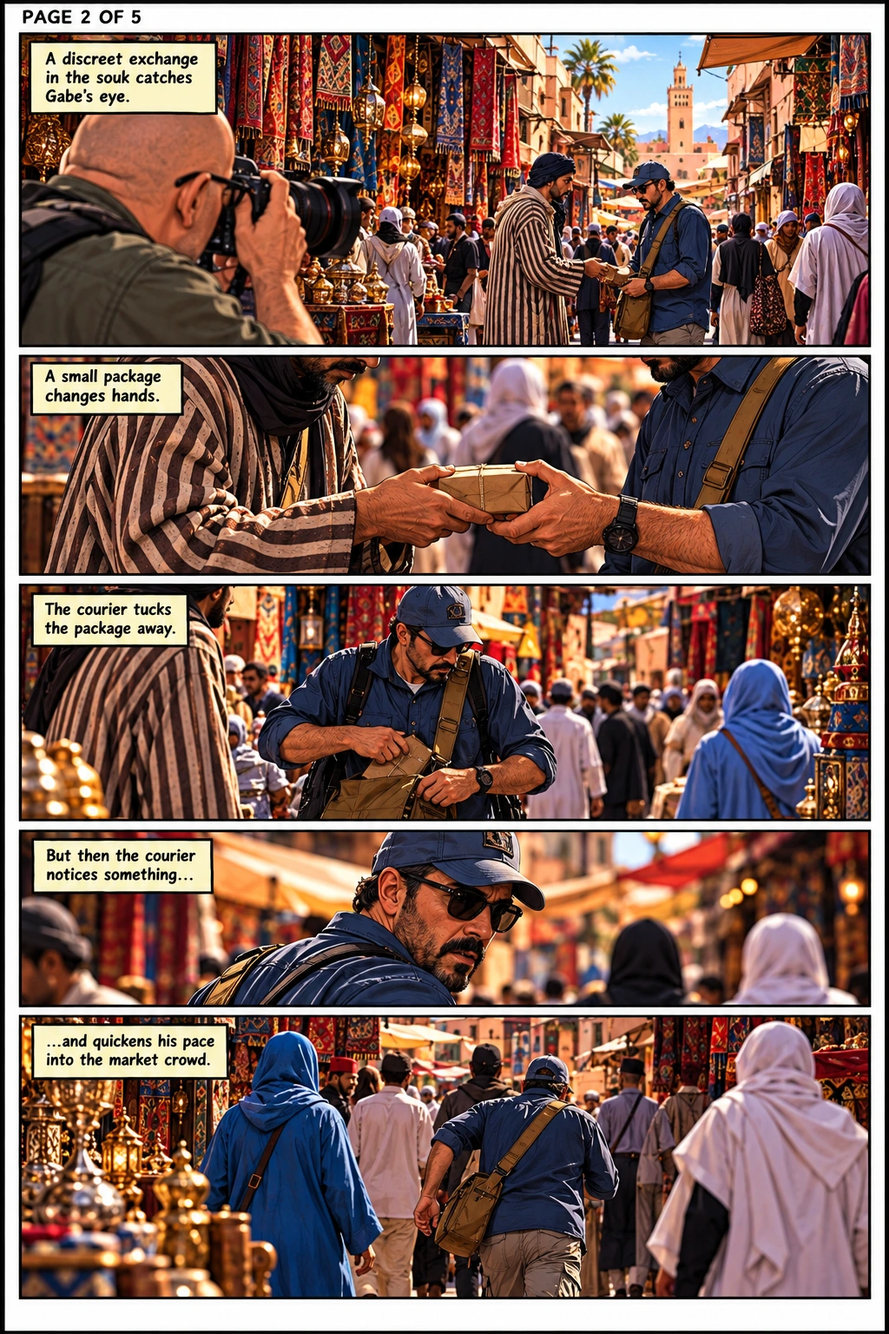
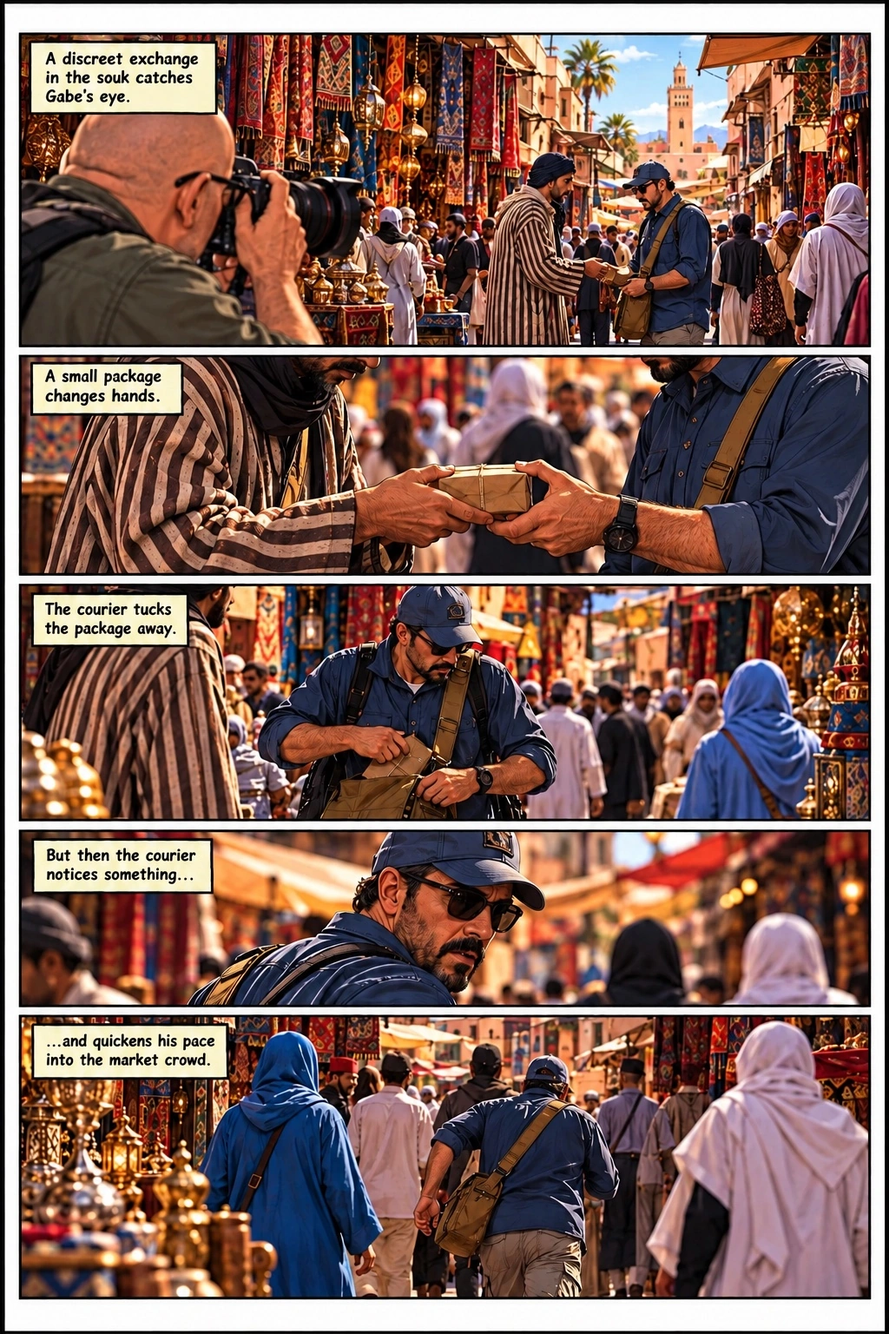
Update 12 files

diff --git a/public/disclaimers.html b/public/disclaimers.html
@@ -1,1 +1,1 @@
-<!doctype html><html lang="en"><head><meta charset="utf-8"><meta name="viewport" content="width=device-width,initial-scale=1,viewport-fit=cover"><meta name="theme-color" content="#0b1216"><meta name="description" content="DaRoo, a Generify original illustrated adventure imprint."><link rel="stylesheet" href="/assets/style.css"><title>DaRoo | Disclaimers</title><meta name="apple-mobile-web-app-capable" content="yes"><meta name="apple-mobile-web-app-status-bar-style" content="black-translucent"><meta name="apple-mobile-web-app-title" content="DaRoo"><link rel="apple-touch-icon" href="/assets/images/daroo-home-icon.png"><link rel="manifest" href="/manifest.webmanifest"><script src="/assets/version.js" defer></script></head><body class="site-page page-disclaimers"><a class="skip" href="#main">Skip to content</a><header class="nav"><a class="wordmark" href="/" aria-label="DaRoo main"><img class="header-logo" src="/assets/images/daroo-approved-logo.webp" alt="DaRoo — A Generify Original"></a></header><main id="main"><section class="editorial legal"><p class="eyebrow">PUBLISHING INFORMATION</p><h1>Disclaimers &amp; rights</h1><p class="lead">Information about the fictional stories and development previews presented by DaRoo.</p><h2>Copyright and permissions</h2><p>Unless otherwise identified, the original stories, characters, scripts, illustrations, designs and website materials presented here are published under the DaRoo imprint, a Generify original. © 2026 Generify. All rights reserved. No part may be reproduced, redistributed, adapted, or commercially exploited without prior written permission, except as permitted by applicable law.</p><h2>Fictional work</h2><p>Gabe &amp; Jinx is a work of fiction. Characters, events, dialogue, organizations and fictional historical material are created for storytelling purposes. Any resemblance to actual persons, living or deceased, or actual events is coincidental or used in a fictionalized context, except where expressly acknowledged.</p><h2>Historical and geographical references</h2><p>Real-world locations, historical periods and cultural details may appear alongside invented people, records, events and circumstances. The stories are entertainment, not documentary or historical evidence.</p><h2>Trademarks and third-party material</h2><p>Third-party names, marks and referenced properties remain the property of their respective owners. Their appearance does not imply sponsorship, endorsement or affiliation. Any credited third-party material remains subject to its own rights and permissions.</p><h2>Preview and production status</h2><p>Pages marked “Development Preview” are works in progress. Artwork, lettering, sequencing, story details and publication information may change before final release. Preview pages are not representations of a finalized printed edition.</p><h2>Reader and site information</h2><p>This website presents original publishing information and a browser-based preview reader. The availability, completeness and format of stories may change. External links, where provided, lead to services outside DaRoo's control.</p><h2>Rights enquiries</h2><p>For permission requests or rights enquiries, contact DaRoo through its official publishing channels. A dedicated contact address will be published when confirmed.</p><p class="fine">Editorial boilerplate draft for review before commercial print publication; not a substitute for advice from a qualified legal professional.</p></section></main><nav class="bottom-nav" aria-label="Site navigation"><a href="/" data-nav="main"><span aria-hidden="true">⌂</span><span>Main</span></a><a href="/stories.html" data-nav="stories"><span aria-hidden="true">▤</span><span>Stories</span></a><a href="/imprint.html" data-nav="imprint"><span aria-hidden="true">✦</span><span>The Imprint</span></a><a href="/disclaimers.html" data-nav="disclaimers"><span aria-hidden="true">ⓘ</span><span>Disclaimers</span></a><span class="app-version" aria-label="Application version 0.4.10">v0.4.10</span></nav></body></html>
+<!doctype html><html lang="en"><head><meta charset="utf-8"><meta name="viewport" content="width=device-width,initial-scale=1,viewport-fit=cover"><meta name="theme-color" content="#0b1216"><meta name="description" content="DaRoo, a Generify original illustrated adventure imprint."><link rel="stylesheet" href="/assets/style.css"><title>DaRoo | Disclaimers</title><meta name="apple-mobile-web-app-capable" content="yes"><meta name="apple-mobile-web-app-status-bar-style" content="black-translucent"><meta name="apple-mobile-web-app-title" content="DaRoo"><link rel="apple-touch-icon" href="/assets/images/daroo-home-icon.png"><link rel="manifest" href="/manifest.webmanifest"><script src="/assets/version.js" defer></script></head><body class="site-page page-disclaimers"><a class="skip" href="#main">Skip to content</a><header class="nav"><a class="wordmark" href="/" aria-label="DaRoo main"><img class="header-logo" src="/assets/images/daroo-approved-logo.webp" alt="DaRoo — A Generify Original"></a></header><main id="main"><section class="editorial legal"><p class="eyebrow">PUBLISHING INFORMATION</p><h1>Disclaimers &amp; rights</h1><p class="lead">Information about the fictional stories and development previews presented by DaRoo.</p><h2>Copyright and permissions</h2><p>Unless otherwise identified, the original stories, characters, scripts, illustrations, designs and website materials presented here are published under the DaRoo imprint, a Generify original. © 2026 Generify. All rights reserved. No part may be reproduced, redistributed, adapted, or commercially exploited without prior written permission, except as permitted by applicable law.</p><h2>Fictional work</h2><p>Gabe &amp; Jinx is a work of fiction. Characters, events, dialogue, organizations and fictional historical material are created for storytelling purposes. Any resemblance to actual persons, living or deceased, or actual events is coincidental or used in a fictionalized context, except where expressly acknowledged.</p><h2>Historical and geographical references</h2><p>Real-world locations, historical periods and cultural details may appear alongside invented people, records, events and circumstances. The stories are entertainment, not documentary or historical evidence.</p><h2>Trademarks and third-party material</h2><p>Third-party names, marks and referenced properties remain the property of their respective owners. Their appearance does not imply sponsorship, endorsement or affiliation. Any credited third-party material remains subject to its own rights and permissions.</p><h2>Preview and production status</h2><p>Pages marked “Development Preview” are works in progress. Artwork, lettering, sequencing, story details and publication information may change before final release. Preview pages are not representations of a finalized printed edition.</p><h2>Reader and site information</h2><p>This website presents original publishing information and a browser-based preview reader. The availability, completeness and format of stories may change. External links, where provided, lead to services outside DaRoo's control.</p><h2>Rights enquiries</h2><p>For permission requests or rights enquiries, contact DaRoo through its official publishing channels. A dedicated contact address will be published when confirmed.</p><p class="fine">Editorial boilerplate draft for review before commercial print publication; not a substitute for advice from a qualified legal professional.</p></section></main><nav class="bottom-nav" aria-label="Site navigation"><a href="/" data-nav="main"><span aria-hidden="true">⌂</span><span>Main</span></a><a href="/stories.html" data-nav="stories"><span aria-hidden="true">▤</span><span>Stories</span></a><a href="/imprint.html" data-nav="imprint"><span aria-hidden="true">✦</span><span>The Imprint</span></a><a href="/disclaimers.html" data-nav="disclaimers"><span aria-hidden="true">ⓘ</span><span>Disclaimers</span></a><span class="app-version" aria-label="Application version 0.4.11">v0.4.11</span></nav></body></html>

diff --git a/public/stories.html b/public/stories.html
@@ -1,1 +1,1 @@
-<!doctype html><html lang="en"><head><meta charset="utf-8"><meta name="viewport" content="width=device-width,initial-scale=1,viewport-fit=cover"><meta name="theme-color" content="#0b1216"><meta name="description" content="DaRoo, a Generify original illustrated adventure imprint."><link rel="stylesheet" href="/assets/style.css"><title>DaRoo | Stories</title><meta name="apple-mobile-web-app-capable" content="yes"><meta name="apple-mobile-web-app-status-bar-style" content="black-translucent"><meta name="apple-mobile-web-app-title" content="DaRoo"><link rel="apple-touch-icon" href="/assets/images/daroo-home-icon.png"><link rel="manifest" href="/manifest.webmanifest"><script src="/assets/version.js" defer></script></head><body class="site-page page-stories"><a class="skip" href="#main">Skip to content</a><header class="nav"><a class="wordmark" href="/" aria-label="DaRoo main"><img class="header-logo" src="/assets/images/daroo-approved-logo.webp" alt="DaRoo — A Generify Original"></a></header><main id="main"><section class="story-section" id="stories"><div class="section-top"><span class="eyebrow">01 / THE FIRST ADVENTURE</span><span class="status">IN DEVELOPMENT</span></div><div class="story-grid"><div class="story-image"><img src="/assets/images/gabe-jinx-eye-of-the-desert-story-art.webp" loading="lazy" alt="Gabe and Jinx in Marrakech with a mysterious 1926 expedition photograph, an elusive courier and the Atlas Mountains"><span class="art-label">BOOK ONE · STORY ILLUSTRATION</span></div><div class="story-copy"><p class="eyebrow accent">GABE &amp; JINX · BOOK ONE</p><h2>An ordinary afternoon.<br><em>An impossible photograph.</em></h2><p>A filmmaker with an eye for what doesn't fit. A fearless kangaroo who refuses to back down. One encounter in Marrakech sends them toward a mystery buried in the Atlas Mountains.</p><p class="bookline">THE EYE OF THE DESERT <span>· BOOK ONE</span></p><a class="btn" href="/reader.html?book=gabe-and-jinx-01">Explore the reader <span>↗</span></a><p class="fine">An illustrated development preview, not the completed book.</p></div></div></section></main><nav class="bottom-nav" aria-label="Site navigation"><a href="/" data-nav="main"><span aria-hidden="true">⌂</span><span>Main</span></a><a href="/stories.html" data-nav="stories"><span aria-hidden="true">▤</span><span>Stories</span></a><a href="/imprint.html" data-nav="imprint"><span aria-hidden="true">✦</span><span>The Imprint</span></a><a href="/disclaimers.html" data-nav="disclaimers"><span aria-hidden="true">ⓘ</span><span>Disclaimers</span></a><span class="app-version" aria-label="Application version 0.4.10">v0.4.10</span></nav></body></html>
+<!doctype html><html lang="en"><head><meta charset="utf-8"><meta name="viewport" content="width=device-width,initial-scale=1,viewport-fit=cover"><meta name="theme-color" content="#0b1216"><meta name="description" content="DaRoo, a Generify original illustrated adventure imprint."><link rel="stylesheet" href="/assets/style.css"><title>DaRoo | Stories</title><meta name="apple-mobile-web-app-capable" content="yes"><meta name="apple-mobile-web-app-status-bar-style" content="black-translucent"><meta name="apple-mobile-web-app-title" content="DaRoo"><link rel="apple-touch-icon" href="/assets/images/daroo-home-icon.png"><link rel="manifest" href="/manifest.webmanifest"><script src="/assets/version.js" defer></script></head><body class="site-page page-stories"><a class="skip" href="#main">Skip to content</a><header class="nav"><a class="wordmark" href="/" aria-label="DaRoo main"><img class="header-logo" src="/assets/images/daroo-approved-logo.webp" alt="DaRoo — A Generify Original"></a></header><main id="main"><section class="story-section" id="stories"><div class="section-top"><span class="eyebrow">01 / THE FIRST ADVENTURE</span><span class="status">IN DEVELOPMENT</span></div><div class="story-grid"><div class="story-image"><img src="/assets/images/gabe-jinx-eye-of-the-desert-story-art.webp" loading="lazy" alt="Gabe and Jinx in Marrakech with a mysterious 1926 expedition photograph, an elusive courier and the Atlas Mountains"><span class="art-label">BOOK ONE · STORY ILLUSTRATION</span></div><div class="story-copy"><p class="eyebrow accent">GABE &amp; JINX · BOOK ONE</p><h2>An ordinary afternoon.<br><em>An impossible photograph.</em></h2><p>A filmmaker with an eye for what doesn't fit. A fearless kangaroo who refuses to back down. One encounter in Marrakech sends them toward a mystery buried in the Atlas Mountains.</p><p class="bookline">THE EYE OF THE DESERT <span>· BOOK ONE</span></p><a class="btn" href="/reader.html?book=gabe-and-jinx-01">Explore the reader <span>↗</span></a><p class="fine">An illustrated development preview, not the completed book.</p></div></div></section></main><nav class="bottom-nav" aria-label="Site navigation"><a href="/" data-nav="main"><span aria-hidden="true">⌂</span><span>Main</span></a><a href="/stories.html" data-nav="stories"><span aria-hidden="true">▤</span><span>Stories</span></a><a href="/imprint.html" data-nav="imprint"><span aria-hidden="true">✦</span><span>The Imprint</span></a><a href="/disclaimers.html" data-nav="disclaimers"><span aria-hidden="true">ⓘ</span><span>Disclaimers</span></a><span class="app-version" aria-label="Application version 0.4.11">v0.4.11</span></nav></body></html>

diff --git a/public/reader.html b/public/reader.html
@@ -1,1 +1,1 @@
-<!doctype html><html lang="en"><head><meta charset="utf-8"><meta name="viewport" content="width=device-width,initial-scale=1"><meta name="theme-color" content="#070b0f"><title>DaRoo | Reader Preview</title><link rel="stylesheet" href="/assets/style.css"><meta name="apple-mobile-web-app-capable" content="yes"><meta name="apple-mobile-web-app-status-bar-style" content="black-translucent"><meta name="apple-mobile-web-app-title" content="DaRoo"><link rel="apple-touch-icon" href="/assets/images/daroo-home-icon.png"><link rel="manifest" href="/manifest.webmanifest"><script src="/assets/version.js" defer></script></head><body class="readerbody"><header class="readerbar"><a href="/" class="back" aria-label="Back to DaRoo">← <span>DaRoo</span></a><div class="reader-heading"><strong id="book-title">Gabe &amp; Jinx</strong><small>DEVELOPMENT PREVIEW</small></div><div class="reader-tools"><button id="zoomout" aria-label="Zoom out" title="Zoom out">−</button><button id="zoomreset" aria-label="Reset zoom" title="Fit page">100%</button><button id="zoomin" aria-label="Zoom in" title="Zoom in">+</button><button id="spread" aria-label="Toggle two-page view" title="Two-page view" aria-pressed="false">▣</button><button id="fullscreen" aria-label="Fullscreen" title="Fullscreen">⛶</button></div></header><main class="reader-main"><div class="reader-stage" id="stage" aria-label="Comic page viewer; pinch or double tap to zoom"><p class="loading">Opening the preview…</p></div><div class="reader-controls"><button id="prev" aria-label="Previous page">← <span>Previous</span></button><div class="progress"><span id="counter">—</span><input id="seek" type="range" min="1" max="1" value="1" aria-label="Choose page"></div><button id="next" aria-label="Next page"><span>Next</span> →</button></div><p class="reader-note" id="reader-note">One portrait comic page per step · Pinch or double tap to zoom</p></main><script src="/assets/reader.js" defer></script><nav class="bottom-nav" aria-label="Site navigation"><a href="/" data-nav="main"><span aria-hidden="true">⌂</span><span>Main</span></a><a href="/stories.html" data-nav="stories"><span aria-hidden="true">▤</span><span>Stories</span></a><a href="/imprint.html" data-nav="imprint"><span aria-hidden="true">✦</span><span>The Imprint</span></a><a href="/disclaimers.html" data-nav="disclaimers"><span aria-hidden="true">ⓘ</span><span>Disclaimers</span></a><span class="app-version" aria-label="Application version 0.4.10">v0.4.10</span></nav></body></html>
+<!doctype html><html lang="en"><head><meta charset="utf-8"><meta name="viewport" content="width=device-width,initial-scale=1"><meta name="theme-color" content="#070b0f"><title>DaRoo | Reader Preview</title><link rel="stylesheet" href="/assets/style.css"><meta name="apple-mobile-web-app-capable" content="yes"><meta name="apple-mobile-web-app-status-bar-style" content="black-translucent"><meta name="apple-mobile-web-app-title" content="DaRoo"><link rel="apple-touch-icon" href="/assets/images/daroo-home-icon.png"><link rel="manifest" href="/manifest.webmanifest"><script src="/assets/version.js" defer></script></head><body class="readerbody"><header class="readerbar"><a href="/" class="back" aria-label="Back to DaRoo">← <span>DaRoo</span></a><div class="reader-heading"><strong id="book-title">Gabe &amp; Jinx</strong><small>DEVELOPMENT PREVIEW</small></div><div class="reader-tools"><button id="zoomout" aria-label="Zoom out" title="Zoom out">−</button><button id="zoomreset" aria-label="Reset zoom" title="Fit page">100%</button><button id="zoomin" aria-label="Zoom in" title="Zoom in">+</button><button id="spread" aria-label="Toggle two-page view" title="Two-page view" aria-pressed="false">▣</button><button id="fullscreen" aria-label="Fullscreen" title="Fullscreen">⛶</button></div></header><main class="reader-main"><div class="reader-stage" id="stage" aria-label="Comic page viewer; pinch or double tap to zoom"><p class="loading">Opening the preview…</p></div><div class="reader-controls"><button id="prev" aria-label="Previous page">← <span>Previous</span></button><div class="progress"><span id="counter">—</span><input id="seek" type="range" min="1" max="1" value="1" aria-label="Choose page"></div><button id="next" aria-label="Next page"><span>Next</span> →</button></div><p class="reader-note" id="reader-note">One portrait comic page per step · Pinch or double tap to zoom</p></main><script src="/assets/reader.js" defer></script><nav class="bottom-nav" aria-label="Site navigation"><a href="/" data-nav="main"><span aria-hidden="true">⌂</span><span>Main</span></a><a href="/stories.html" data-nav="stories"><span aria-hidden="true">▤</span><span>Stories</span></a><a href="/imprint.html" data-nav="imprint"><span aria-hidden="true">✦</span><span>The Imprint</span></a><a href="/disclaimers.html" data-nav="disclaimers"><span aria-hidden="true">ⓘ</span><span>Disclaimers</span></a><span class="app-version" aria-label="Application version 0.4.11">v0.4.11</span></nav></body></html>

diff --git a/public/imprint.html b/public/imprint.html
@@ -1,1 +1,1 @@
-<!doctype html><html lang="en"><head><meta charset="utf-8"><meta name="viewport" content="width=device-width,initial-scale=1,viewport-fit=cover"><meta name="theme-color" content="#0b1216"><meta name="description" content="DaRoo, a Generify original illustrated adventure imprint."><link rel="stylesheet" href="/assets/style.css"><title>DaRoo | The Imprint</title><meta name="apple-mobile-web-app-capable" content="yes"><meta name="apple-mobile-web-app-status-bar-style" content="black-translucent"><meta name="apple-mobile-web-app-title" content="DaRoo"><link rel="apple-touch-icon" href="/assets/images/daroo-home-icon.png"><link rel="manifest" href="/manifest.webmanifest"><script src="/assets/version.js" defer></script></head><body class="site-page page-imprint"><a class="skip" href="#main">Skip to content</a><header class="nav"><a class="wordmark" href="/" aria-label="DaRoo main"><img class="header-logo" src="/assets/images/daroo-approved-logo.webp" alt="DaRoo — A Generify Original"></a></header><main id="main"><section class="imprint" id="imprint"><div><p class="eyebrow">02 / THE IMPRINT</p><h2>Made to be<br><em>explored twice.</em></h2></div><div><p>DaRoo publishes illustrated adventures built around character, atmosphere and the small clues hiding in plain sight.</p><p>The first read is the adventure. The second is the hunt.</p><div class="imprint-mark"><img src="/assets/images/daroo-original-artwork.webp" alt="Original Generify DaRoo adventure artwork"><span>ORIGINAL GENERIFY × DAROO ARTWORK</span></div></div></section><section class="editorial"><h2>Our approach</h2><p>Story comes first. Artwork, lettering and continuity are developed and reviewed together, page by page. DaRoo is an illustrated publishing imprint presented by Generify.</p></section></main><nav class="bottom-nav" aria-label="Site navigation"><a href="/" data-nav="main"><span aria-hidden="true">⌂</span><span>Main</span></a><a href="/stories.html" data-nav="stories"><span aria-hidden="true">▤</span><span>Stories</span></a><a href="/imprint.html" data-nav="imprint"><span aria-hidden="true">✦</span><span>The Imprint</span></a><a href="/disclaimers.html" data-nav="disclaimers"><span aria-hidden="true">ⓘ</span><span>Disclaimers</span></a><span class="app-version" aria-label="Application version 0.4.10">v0.4.10</span></nav></body></html>
+<!doctype html><html lang="en"><head><meta charset="utf-8"><meta name="viewport" content="width=device-width,initial-scale=1,viewport-fit=cover"><meta name="theme-color" content="#0b1216"><meta name="description" content="DaRoo, a Generify original illustrated adventure imprint."><link rel="stylesheet" href="/assets/style.css"><title>DaRoo | The Imprint</title><meta name="apple-mobile-web-app-capable" content="yes"><meta name="apple-mobile-web-app-status-bar-style" content="black-translucent"><meta name="apple-mobile-web-app-title" content="DaRoo"><link rel="apple-touch-icon" href="/assets/images/daroo-home-icon.png"><link rel="manifest" href="/manifest.webmanifest"><script src="/assets/version.js" defer></script></head><body class="site-page page-imprint"><a class="skip" href="#main">Skip to content</a><header class="nav"><a class="wordmark" href="/" aria-label="DaRoo main"><img class="header-logo" src="/assets/images/daroo-approved-logo.webp" alt="DaRoo — A Generify Original"></a></header><main id="main"><section class="imprint" id="imprint"><div><p class="eyebrow">02 / THE IMPRINT</p><h2>Made to be<br><em>explored twice.</em></h2></div><div><p>DaRoo publishes illustrated adventures built around character, atmosphere and the small clues hiding in plain sight.</p><p>The first read is the adventure. The second is the hunt.</p><div class="imprint-mark"><img src="/assets/images/daroo-original-artwork.webp" alt="Original Generify DaRoo adventure artwork"><span>ORIGINAL GENERIFY × DAROO ARTWORK</span></div></div></section><section class="editorial"><h2>Our approach</h2><p>Story comes first. Artwork, lettering and continuity are developed and reviewed together, page by page. DaRoo is an illustrated publishing imprint presented by Generify.</p></section></main><nav class="bottom-nav" aria-label="Site navigation"><a href="/" data-nav="main"><span aria-hidden="true">⌂</span><span>Main</span></a><a href="/stories.html" data-nav="stories"><span aria-hidden="true">▤</span><span>Stories</span></a><a href="/imprint.html" data-nav="imprint"><span aria-hidden="true">✦</span><span>The Imprint</span></a><a href="/disclaimers.html" data-nav="disclaimers"><span aria-hidden="true">ⓘ</span><span>Disclaimers</span></a><span class="app-version" aria-label="Application version 0.4.11">v0.4.11</span></nav></body></html>

diff --git a/public/index.html b/public/index.html
@@ -1,1 +1,1 @@
-<!doctype html><html lang="en"><head><meta charset="utf-8"><meta name="viewport" content="width=device-width,initial-scale=1,viewport-fit=cover"><meta name="theme-color" content="#0b1216"><meta name="description" content="DaRoo, a Generify original illustrated adventure imprint."><link rel="stylesheet" href="/assets/style.css"><title>DaRoo | Main</title><meta name="apple-mobile-web-app-capable" content="yes"><meta name="apple-mobile-web-app-status-bar-style" content="black-translucent"><meta name="apple-mobile-web-app-title" content="DaRoo"><link rel="apple-touch-icon" href="/assets/images/daroo-home-icon.png"><link rel="manifest" href="/manifest.webmanifest"><script src="/assets/version.js" defer></script></head><body class="site-page page-main"><a class="skip" href="#main">Skip to content</a><header class="nav"><a class="wordmark" href="/" aria-label="DaRoo main"><img class="header-logo" src="/assets/images/daroo-approved-logo.webp" alt="DaRoo — A Generify Original"></a></header><main id="main"><section class="hero"><div class="hero-art"><img src="/assets/images/daroo-hero-clean-v039.webp" alt="Gabe and Jinx overlooking Marrakech at sunset" fetchpriority="high"><div class="art-label">GABE &amp; JINX · THE EYE OF THE DESERT</div></div><div class="hero-copy"><p class="eyebrow">A NEW HOME FOR ILLUSTRATED ADVENTURE</p><h1>Some stories<br>stay <em>with you.</em></h1><p class="lead">Cinematic worlds. Unlikely companions. Details worth a second look.</p><div class="hero-actions"><a class="btn" href="/stories.html">Discover the first story <span>↘</span></a></div><p class="micro">DA ROO / A GENERIFY ORIGINAL IMPRINT</p></div></section></main><nav class="bottom-nav" aria-label="Site navigation"><a href="/" data-nav="main"><span aria-hidden="true">⌂</span><span>Main</span></a><a href="/stories.html" data-nav="stories"><span aria-hidden="true">▤</span><span>Stories</span></a><a href="/imprint.html" data-nav="imprint"><span aria-hidden="true">✦</span><span>The Imprint</span></a><a href="/disclaimers.html" data-nav="disclaimers"><span aria-hidden="true">ⓘ</span><span>Disclaimers</span></a><span class="app-version" aria-label="Application version 0.4.10">v0.4.10</span></nav></body></html>
+<!doctype html><html lang="en"><head><meta charset="utf-8"><meta name="viewport" content="width=device-width,initial-scale=1,viewport-fit=cover"><meta name="theme-color" content="#0b1216"><meta name="description" content="DaRoo, a Generify original illustrated adventure imprint."><link rel="stylesheet" href="/assets/style.css"><title>DaRoo | Main</title><meta name="apple-mobile-web-app-capable" content="yes"><meta name="apple-mobile-web-app-status-bar-style" content="black-translucent"><meta name="apple-mobile-web-app-title" content="DaRoo"><link rel="apple-touch-icon" href="/assets/images/daroo-home-icon.png"><link rel="manifest" href="/manifest.webmanifest"><script src="/assets/version.js" defer></script></head><body class="site-page page-main"><a class="skip" href="#main">Skip to content</a><header class="nav"><a class="wordmark" href="/" aria-label="DaRoo main"><img class="header-logo" src="/assets/images/daroo-approved-logo.webp" alt="DaRoo — A Generify Original"></a></header><main id="main"><section class="hero"><div class="hero-art"><img src="/assets/images/daroo-hero-clean-v039.webp" alt="Gabe and Jinx overlooking Marrakech at sunset" fetchpriority="high"><div class="art-label">GABE &amp; JINX · THE EYE OF THE DESERT</div></div><div class="hero-copy"><p class="eyebrow">A NEW HOME FOR ILLUSTRATED ADVENTURE</p><h1>Some stories<br>stay <em>with you.</em></h1><p class="lead">Cinematic worlds. Unlikely companions. Details worth a second look.</p><div class="hero-actions"><a class="btn" href="/stories.html">Discover the first story <span>↘</span></a></div><p class="micro">DA ROO / A GENERIFY ORIGINAL IMPRINT</p></div></section></main><nav class="bottom-nav" aria-label="Site navigation"><a href="/" data-nav="main"><span aria-hidden="true">⌂</span><span>Main</span></a><a href="/stories.html" data-nav="stories"><span aria-hidden="true">▤</span><span>Stories</span></a><a href="/imprint.html" data-nav="imprint"><span aria-hidden="true">✦</span><span>The Imprint</span></a><a href="/disclaimers.html" data-nav="disclaimers"><span aria-hidden="true">ⓘ</span><span>Disclaimers</span></a><span class="app-version" aria-label="Application version 0.4.11">v0.4.11</span></nav></body></html>

diff --git a/README.md b/README.md
@@ -149,3 +149,9 @@ Removed background-style cover cropping; artwork is a normal proportional image.
 
 ## v0.4.10 — Artwork registry (packaged, not verified live)
 Adds `APPROVED_ARTWORK.json` with SHA-256 hashes, image dimensions, and separate editorial approval status for all 13 chapter pages. `package.py` refuses to package if any registered image changes, is missing, has a malformed WebP header, or has unrecorded nonstandard dimensions. Pages 11–13 correspond to recently approved revisions; Pages 1–10 remain pending editorial confirmation. Page 8's existing 1024×1335 dimensions are documented as an exception rather than changed. No image bytes, manifest, reader UI or `.env.example` changed. This gate catches unexpected byte substitutions but cannot judge story or visual quality. To intentionally change artwork, require user approval, then update its hash and approval note in the same authorized release.
+
+## v0.4.11 — 2026-10-10 — Page 4 numbering removal
+- Replaced only Page 4 artwork with user-supplied five-panel portrait without legacy top numbering.
+- Updated Page 4 checksum in `APPROVED_ARTWORK.json`; other 12 page files and hashes unchanged.
+- Bumped version for reader image cache busting. HTML changes limited to synced version fallback labels.
+- Packaged and locally validated, not verified live.

diff --git a/DEPLOYED.md b/DEPLOYED.md
@@ -57,3 +57,9 @@ Moves nine unused images to `reference/` (not served), adds `package.py`, `MANUA
 
 ## v0.4.10 — packaged, NOT confirmed deployed
 Repository-root artwork checksum registry plus packager integrity checks. All existing artwork preserved byte-for-byte. Pages 1–10: editorial confirmation pending; Pages 11–13: approved source matches the repository assets (Page 12 uses corrected Gabe's-room version). Existing Page 8 1024×1335 exception documented. `.env.example` unchanged. No manual deletions added. No live device verification.
+
+## v0.4.11 — 2026-10-10 — package prepared, not verified live
+- Page 4 WEBP replaced from user-provided numbering-free artwork.
+- Page 4 SHA-256 updated; Pages 1–3 and 5–13 unaffected.
+- Reader chapter numbering remains separate from artwork; site version bumped for cache refresh.
+- No deletions requested. `.env.example` unchanged.
